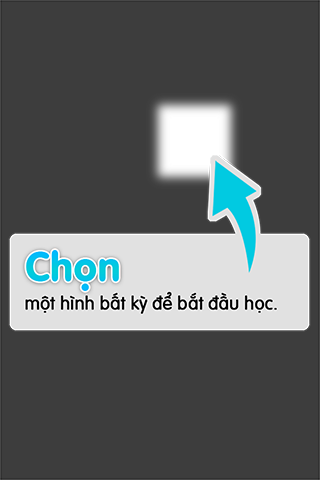
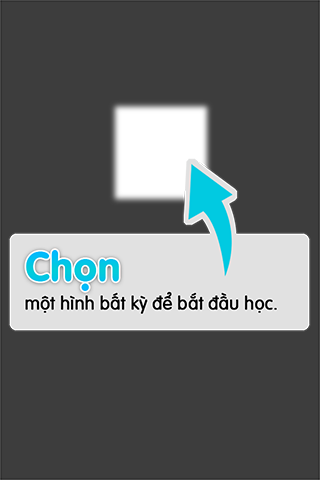
Flashcard collection shows 3x3 grid

Changed region(s): [[0.3438, 0.1875, 0.8438, 0.5938]]

diff --git a/EasyVocab/FlashCardCollectionVC.m b/EasyVocab/FlashCardCollectionVC.m
@@ -49,7 +49,7 @@
     self.categoryLabel.font = [UIFont fontWithName:@"UVNVan" size:30];
 	
 //	NSLog(@"iconPath=%@",iconPath);
-	shellPerPage = 16;
+	shellPerPage = 9;
     int flashcardCount = [self.flashcardCollection numberOfFlashcardInCategory:self.currentCategory];
 	self.pageControl.numberOfPages = flashcardCount/shellPerPage;
 	if (flashcardCount%shellPerPage!=0)self.pageControl.numberOfPages ++;
